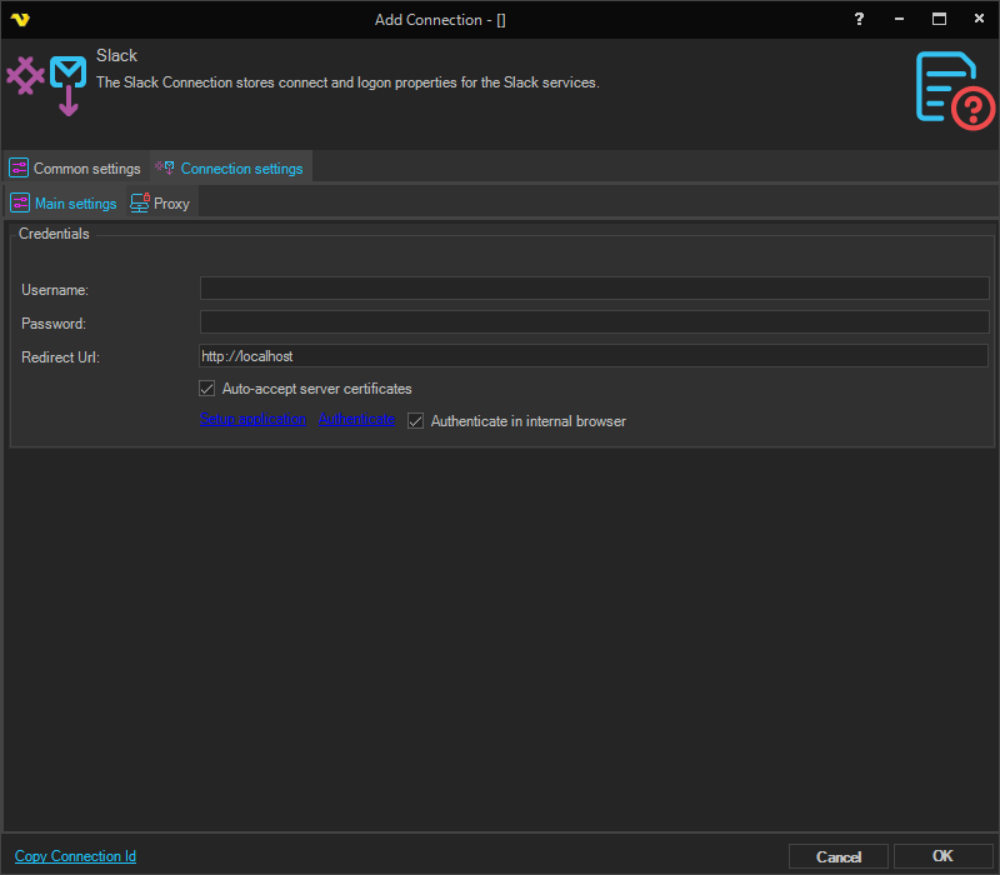
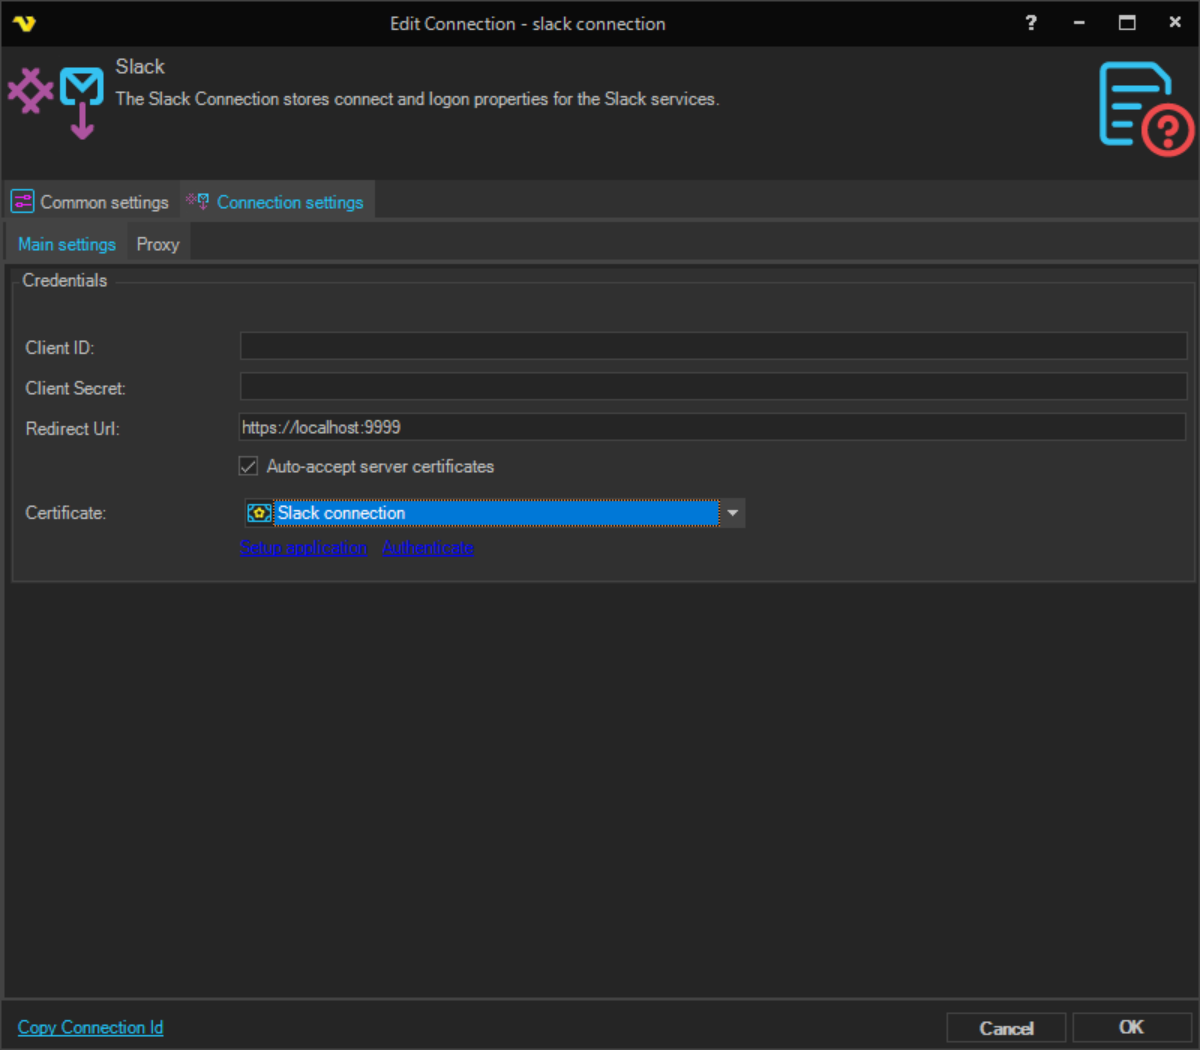
Merge pull request #484 from smatechnologies/task/vcpcm2795
VCPCM-2795: Slack connection docs - HTTPS redirect + certificate

Pull request: VCPCM-2795: Slack connection docs - HTTPS redirect + certificate
## Summary
- Document the new **Certificate** field and **Accept all server certificates** toggle on the Slack Connection settings tab (required because the OAuth redirect listener is now HTTPS).
- Update Redirect Url guidance: default is now `https://localhost:9999`, and Slack only accepts HTTPS.
- Remove the obsolete **Extra settings** tab section (the Redirect Url moved onto the Connection settings tab; the UC no longer ships an Extra settings tab).
- Refresh `Settings.png` (Connection settings tab) and `slack_setredirecturi.png` (Slack admin Redirect URL panel); delete orphaned `slack_redirecturi.png`.

Ticket: [VCPCM-2795](https://smatechnologies.atlassian.net/browse/VCPCM-2795)

[VCPCM-2795]: https://smatechnologies.atlassian.net/browse/VCPCM-2795?atlOrigin=eyJpIjoiNWRkNTljNzYxNjVmNDY3MDlhMDU5Y2ZhYzA5YTRkZjUiLCJwIjoiZ2l0aHViLWNvbS1KU1cifQ

diff --git a/docs/client-user-interface/server/connection-slack.md b/docs/client-user-interface/server/connection-slack.md
@@ -56,6 +56,18 @@ This needs to match the Client secret settings in online Slack settings.
 
 Setup application links opens Slack workspace creation link. See images below how to create a workspace
  
+**Certificate**
+
+Required. The certificate used to terminate the HTTPS OAuth redirect listener during authentication. Pick a certificate that contains a usable private key from **Certificates**. Slack only accepts HTTPS redirect URLs, so the certificate must be present even when redirecting to `localhost`.
+
+**Accept all server certificates**
+
+When enabled, certificate validation errors on the OAuth redirect listener are ignored. Useful with self-signed certificates against `localhost`.
+
+**Redirect Url**
+
+This setting is for first time authentication only. Slack requires an HTTPS redirect URL; the default is [https://localhost:9999](https://localhost:9999) and it must match the Redirect URL configured in the Slack app. See images below.
+
 **Authenticate**
 
 When you have created a workspace or have an existing you click on Authenticate. See images below about authentication.
@@ -63,15 +75,6 @@ When you have created a workspace or have an existing you click on Authenticate.
 **Application token**
 
 More details..
- 
- 
-**Manage Connections > Add > Slack > Extra settings** tab
-
-![](../../../static/img/slack_redirecturi.png)
-
-**Redirect Url**
-
-This setting is for first time authentication only. We recommend using [http://localhost:9999](http://localhost:9999) which should match Redirect Url settings in Slack. See images below.
  
 ### Setting up Slack -> Create workspace
 
@@ -90,6 +93,8 @@ This setting is for first time authentication only. We recommend using [http://l
 ![](../../../static/img/slack_clickpermissions.png)
 
 ### Setting up Slack -> Set Redirect URLs
+
+The Redirect URL configured in the Slack app must use HTTPS (for example `https://localhost:9999`) and must match the Redirect Url set on the VisualCron connection.
 
 ![](../../../static/img/slack_setredirecturi.png)
 